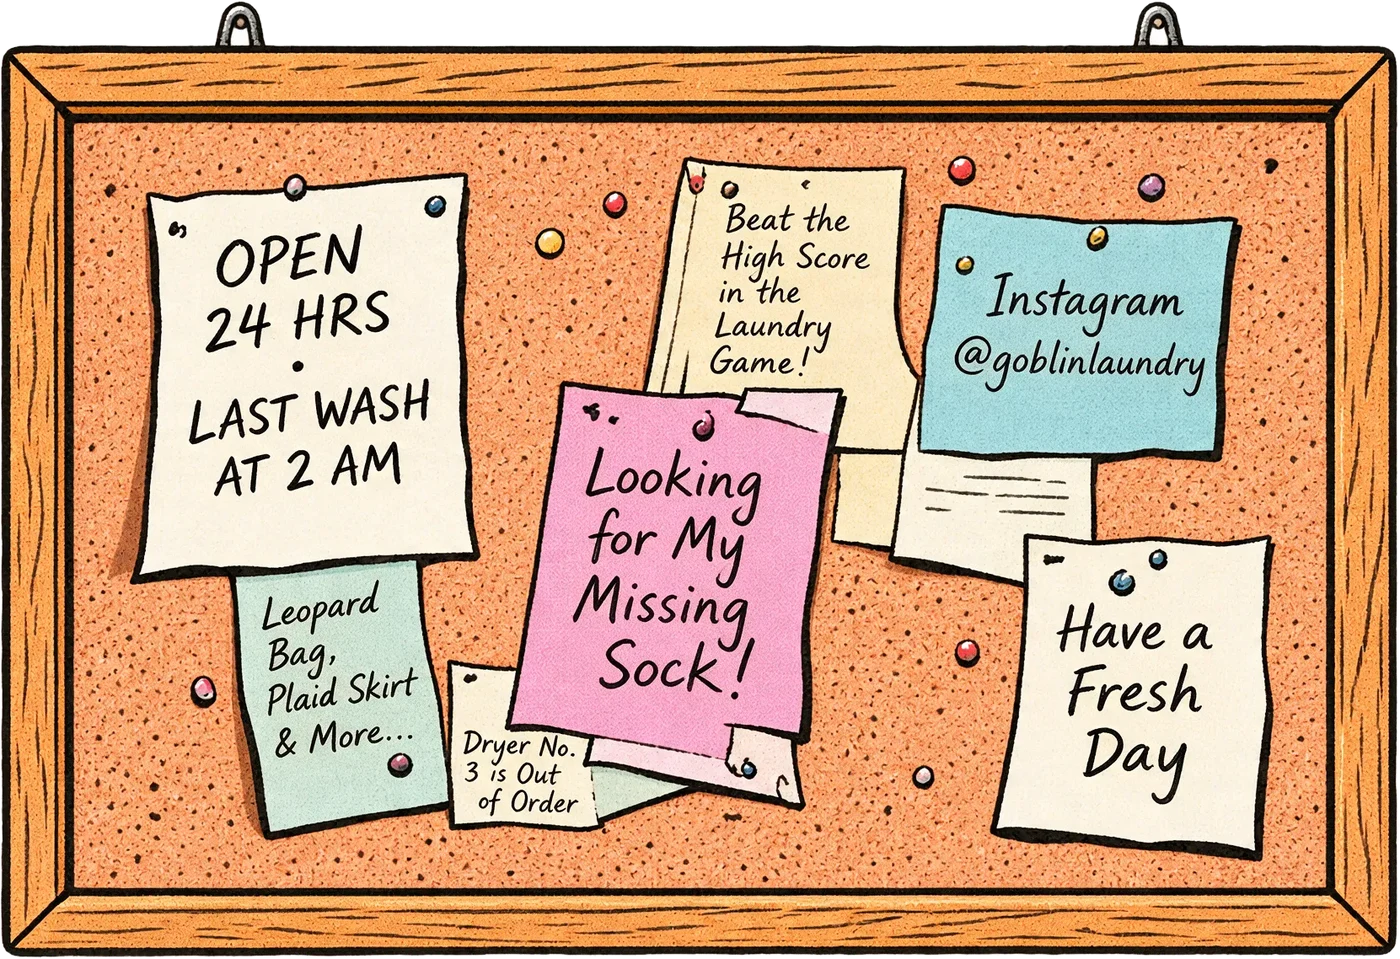
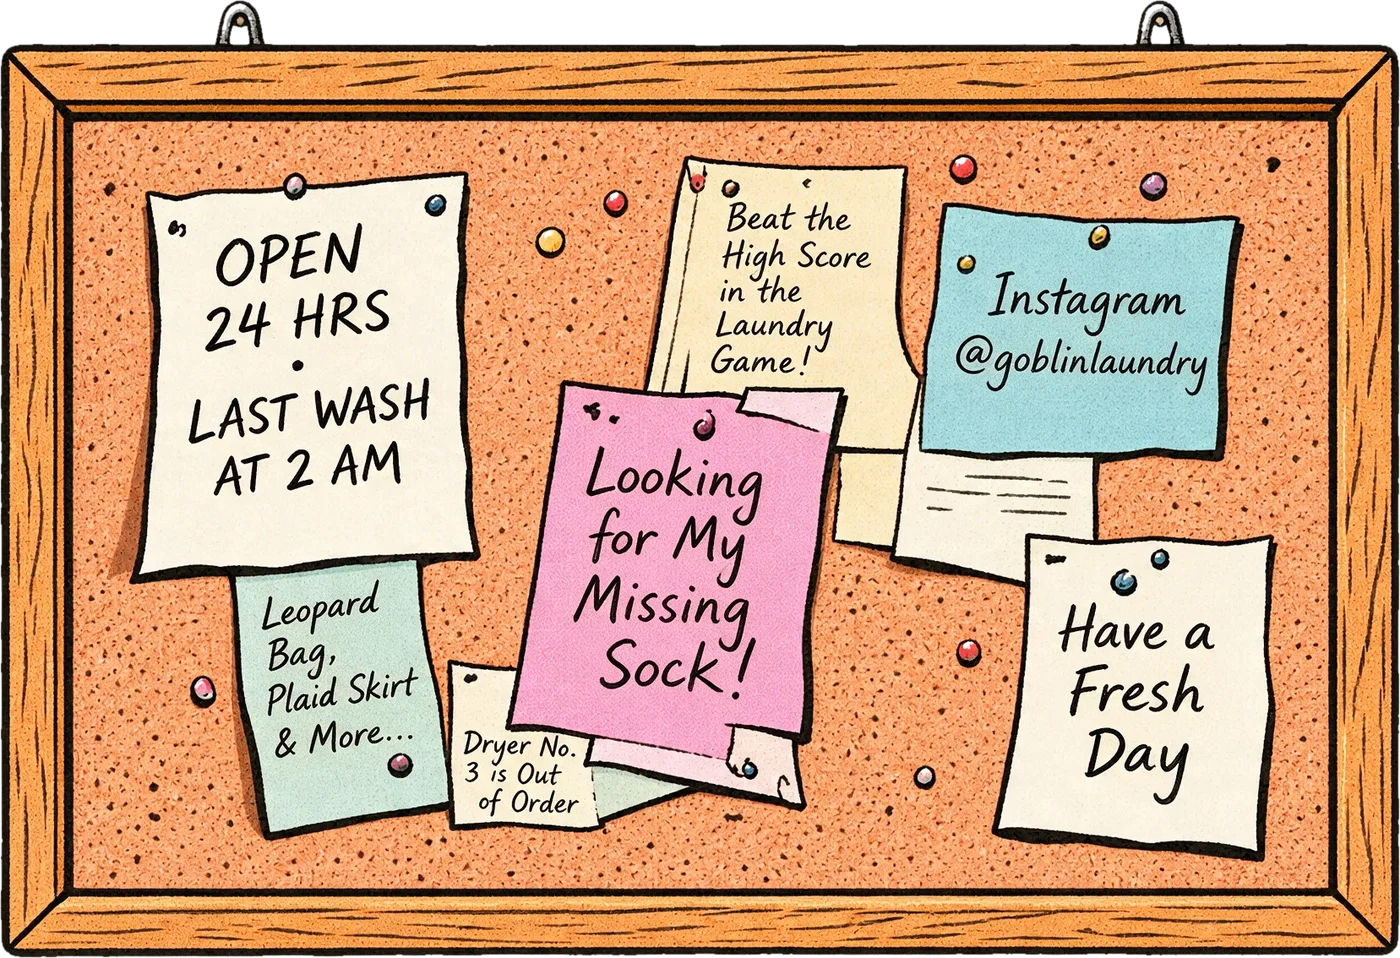
Board overlay: clean white fringe and hook holes

diff --git a/index.html b/index.html
@@ -390,7 +390,7 @@ html body.grabbing,html body.grabbing *{cursor:url(img/cur_hand.png?v=3) 14 14,g
 <div id="vthumb"></div>
 <div id="toast" role="status"></div>
 <div id="phone" aria-hidden="true"></div>
-<div id="board" aria-hidden="true"><img src="img/board2.webp" alt="게시판" draggable="false"><button class="x" aria-label="닫기">×</button></div>
+<div id="board" aria-hidden="true"><img src="img/board2.webp?v=2" alt="게시판" draggable="false"><button class="x" aria-label="닫기">×</button></div>
 
 <div id="loader" aria-label="불러오는 중"><div class="gl-ring"></div><div class="gl-txt"><span>0</span>%</div></div>
 
